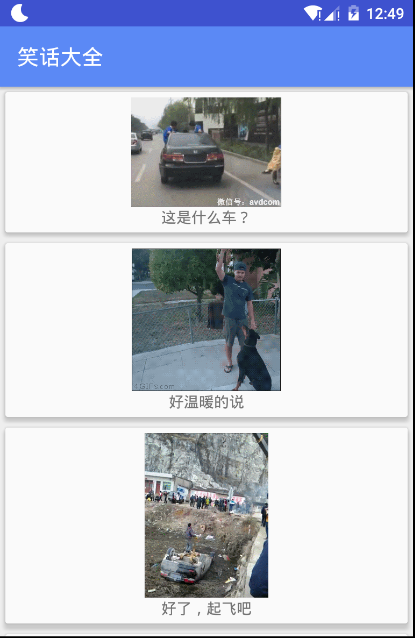
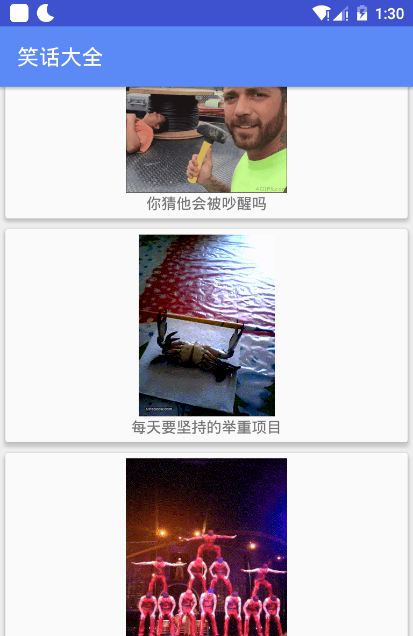
修改截图

diff --git a/app/src/main/java/com/xwj/jokexwj/adapter/presenter/FooterPresenterImpl.java b/app/src/main/java/com/xwj/jokexwj/adapter/presenter/FooterPresenterImpl.java
@@ -9,6 +9,7 @@ import com.xwj.jokexwj.api.NetClient;
 import com.xwj.jokexwj.dao.JokesDao;
 import com.xwj.jokexwj.funnypic.views.FunnyPicView;
 import com.xwj.jokexwj.joke.views.JokeView;
+import com.xwj.jokexwj.model.funnypic.FunnyPicData;
 import com.xwj.jokexwj.model.joke.JokeData;
 
 import java.io.IOException;
@@ -27,6 +28,7 @@ public class FooterPresenterImpl implements FooterPresenter {
     private Activity activity;
     private JokesDao mDao;
     private FunnyPicView mFunnyPicView;
+    private Gson mGson;
 
 
     public FooterPresenterImpl(JokeView jokeView, FooterView footerView) {
@@ -35,6 +37,7 @@ public class FooterPresenterImpl implements FooterPresenter {
         activity = (Activity) jokeView.gainContext();
         mNetClient = new NetClient();
         mDao = new JokesDao(jokeView.gainContext());
+        mGson = new Gson();
     }
 
     public FooterPresenterImpl(FunnyPicView funnyPicView, FooterView footerView) {
@@ -43,25 +46,46 @@ public class FooterPresenterImpl implements FooterPresenter {
         activity = (Activity) funnyPicView.gainContext();
         mNetClient = new NetClient();
         mDao = new JokesDao(funnyPicView.gainContext());
+        mGson = new Gson();
     }
 
     @Override
     public void onClick(View view) {
         mFooterView.showLoadingMore();
         mFooterView.unableClick();
-        mNetClient.getMoreNewestJokes((mJokeView.getJokeCount() / 20) + 1, new Callback() {
-            @Override
-            public void onFailure(Call call, IOException e) {
 
-            }
+        if (mFunnyPicView != null) {
+            int pagePic = (mFunnyPicView.getFunnyPicCount() / 5) + 1;
+            mNetClient.getMoreNewestFunnyPic(pagePic, new Callback() {
+                @Override
+                public void onFailure(Call call, IOException e) {
 
-            @Override
-            public void onResponse(Call call, Response response) throws IOException {
-                Gson gson = new Gson();
-                if (mFunnyPicView != null) {
+                }
 
-                } else if (mJokeView != null) {
-                    final JokeData data = gson.fromJson(response.body().string(), JokeData.class);
+                @Override
+                public void onResponse(Call call, Response response) throws IOException {
+                    final FunnyPicData funnyPicsdata = mGson.fromJson(response.body().string(), FunnyPicData.class);
+                    activity.runOnUiThread(new Runnable() {
+                        @Override
+                        public void run() {
+                            mFunnyPicView.bindMore(funnyPicsdata.result.data);
+                            mFooterView.hideLoadingMore();
+                            mFooterView.enableClick();
+                        }
+                    });
+                }
+            });
+        } else {
+            int page1 = (mJokeView.getJokeCount() / 20) + 1;
+            mNetClient.getMoreNewestJokes(page1, new Callback() {
+                @Override
+                public void onFailure(Call call, IOException e) {
+
+                }
+
+                @Override
+                public void onResponse(Call call, Response response) throws IOException {
+                    final JokeData data = mGson.fromJson(response.body().string(), JokeData.class);
                     activity.runOnUiThread(new Runnable() {
                         @Override
                         public void run() {
@@ -70,11 +94,8 @@ public class FooterPresenterImpl implements FooterPresenter {
                             mFooterView.enableClick();
                         }
                     });
-                    mDao.insertJokeList(data.result.data);
                 }
-
-            }
-        });
+            });
+        }
     }
-
 }

diff --git a/app/src/main/java/com/xwj/jokexwj/funnypic/views/PicShowActivity.java b/app/src/main/java/com/xwj/jokexwj/funnypic/views/PicShowActivity.java
@@ -2,7 +2,10 @@ package com.xwj.jokexwj.funnypic.views;
 
 import android.os.Bundle;
 import android.support.v7.app.AppCompatActivity;
+import android.support.v7.widget.Toolbar;
+import android.view.View;
 import android.widget.ImageView;
+import android.widget.ProgressBar;
 
 import com.koushikdutta.async.future.FutureCallback;
 import com.koushikdutta.ion.Ion;
@@ -18,19 +21,31 @@ import pl.droidsonroids.gif.GifImageView;
 /**
  * Created by xwjsd on 2016-02-16.
  */
-public class PicShowActivity extends AppCompatActivity implements PicShowView {
+public class PicShowActivity extends AppCompatActivity implements PicShowView, View.OnClickListener {
 
     private PicShowPresenter mPicShowPresenter;
     @InjectView(R.id.gif_main)
     GifImageView mGifImageView;
+    @InjectView(R.id.toolbar)
+    Toolbar mToolbar;
+    @InjectView(R.id.pb_pic_show)
+    ProgressBar mProgressBar;
 
     @Override
     public void onCreate(Bundle savedInstanceState) {
         super.onCreate(savedInstanceState);
         setContentView(R.layout.activity_pic_show);
-        ButterKnife.inject(this);
+
+        initViews();
         mPicShowPresenter = new PicShowPresenterImpl(this, this);
         mPicShowPresenter.onCreate();
+    }
+
+    private void initViews() {
+        ButterKnife.inject(this);
+        setSupportActionBar(mToolbar);
+        mToolbar.setNavigationIcon(R.drawable.ic_arrow_back_white_24dp);
+        mToolbar.setNavigationOnClickListener(this);
     }
 
     @Override
@@ -45,11 +60,23 @@ public class PicShowActivity extends AppCompatActivity implements PicShowView {
 
     @Override
     public void showProgress() {
-
+//        mProgressBar.setVisibility(View.VISIBLE);
+//        mGifImageView.setVisibility(View.GONE);
     }
 
     @Override
     public void hideProgress() {
+//        mProgressBar.setVisibility(View.GONE);
+//        mGifImageView.setVisibility(View.VISIBLE);
+    }
 
+    @Override
+    public void onClick(View v) {
+        mPicShowPresenter.onClick(v);
+    }
+
+    @Override
+    public void finishActivity() {
+        this.finish();
     }
 }

diff --git a/app/src/main/java/com/xwj/jokexwj/funnypic/views/FunnyPicsFragment.java b/app/src/main/java/com/xwj/jokexwj/funnypic/views/FunnyPicsFragment.java
@@ -74,13 +74,13 @@ public class FunnyPicsFragment extends Fragment implements FunnyPicView, SwipeRe
         mRecyclerView.setLayoutManager(new LinearLayoutManager(this.getContext()));
         mRecyclerView.setHasFixedSize(true);
         mRecyclerView.setAdapter(mFunnyPicAdapter);
-
+        mFunnyPicsPresenter.onViewCreated();
     }
 
     @Override
     public void onResume() {
         super.onResume();
-        mFunnyPicsPresenter.onResume();
+        //mFunnyPicsPresenter.onResume();
     }
 
     @Override
@@ -115,6 +115,17 @@ public class FunnyPicsFragment extends Fragment implements FunnyPicView, SwipeRe
     @Override
     public Context gainContext() {
         return this.getContext();
+    }
+
+    @Override
+    public void bindMore(List<FunnyPic> list) {
+        funnyPicList.addAll(list);
+        mFunnyPicAdapter.notifyDataSetChanged();
+    }
+
+    @Override
+    public int getFunnyPicCount() {
+        return funnyPicList.size();
     }
 
     @Override

diff --git a/app/src/main/java/com/xwj/jokexwj/funnypic/presenters/FunnyPicsPresenterImpl.java b/app/src/main/java/com/xwj/jokexwj/funnypic/presenters/FunnyPicsPresenterImpl.java
@@ -31,8 +31,7 @@ public class FunnyPicsPresenterImpl implements FunnyPicsPresenter {
 
     @Override
     public void onResume() {
-        mFunnyPicView.showProgress();
-        getNewestFunnyPics();
+
     }
 
     private void getNewestFunnyPics() {
@@ -69,5 +68,11 @@ public class FunnyPicsPresenterImpl implements FunnyPicsPresenter {
     @Override
     public void onRefresh() {
         this.getNewestFunnyPics();
+    }
+
+    @Override
+    public void onViewCreated() {
+        mFunnyPicView.showProgress();
+        getNewestFunnyPics();
     }
 }

diff --git a/app/src/main/java/com/xwj/jokexwj/funnypic/views/FunnyPicView.java b/app/src/main/java/com/xwj/jokexwj/funnypic/views/FunnyPicView.java
@@ -12,4 +12,8 @@ import java.util.List;
  */
 public interface FunnyPicView extends BaseView<List<FunnyPic>> {
     Context gainContext();
+
+    void bindMore(List<FunnyPic> list);
+
+    int getFunnyPicCount();
 }

diff --git a/app/src/main/java/com/xwj/jokexwj/funnypic/presenters/PicShowPresenterImpl.java b/app/src/main/java/com/xwj/jokexwj/funnypic/presenters/PicShowPresenterImpl.java
@@ -42,7 +42,7 @@ public class PicShowPresenterImpl implements PicShowPresenter {
 
     @Override
     public void onClick(View view) {
-
+        mPicShowView.finishActivity();
     }
 
     @Override

diff --git a/app/src/main/java/com/xwj/jokexwj/funnypic/presenters/FunnyPicsPresenter.java b/app/src/main/java/com/xwj/jokexwj/funnypic/presenters/FunnyPicsPresenter.java
@@ -8,4 +8,6 @@ import com.xwj.jokexwj.BasePresenter;
 public interface FunnyPicsPresenter extends BasePresenter {
 
     void onRefresh();
+
+    void onViewCreated();
 }

diff --git a/app/src/main/java/com/xwj/jokexwj/funnypic/views/PicShowView.java b/app/src/main/java/com/xwj/jokexwj/funnypic/views/PicShowView.java
@@ -8,4 +8,5 @@ import com.xwj.jokexwj.views.BaseView;
  */
 public interface PicShowView extends BaseView<FunnyPic> {
 
+    void finishActivity();
 }
